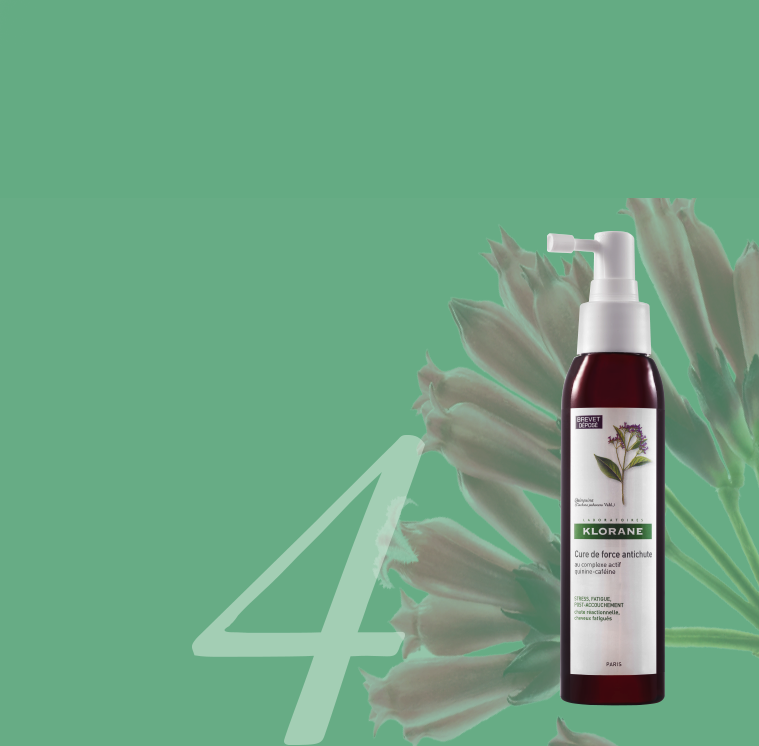
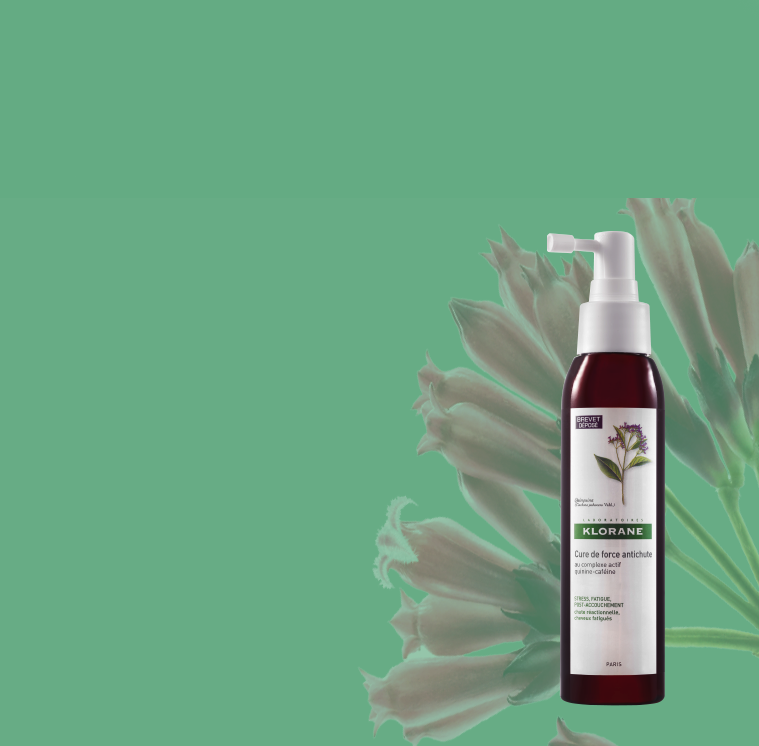
fixed

Changed region(s): [[0.2424, 0.5858, 0.5758, 1.0]]

diff --git a/klorane/css/style.css b/klorane/css/style.css
@@ -193,7 +193,6 @@ body {
         height: 590px;
         position: relative;
         overflow: hidden;
-        background-color: rgba(2, 117, 52, 0.6);
         -webkit-clip-path: polygon(100% 0, 100% 88%, 0 100%, 0 0);
         clip-path: polygon(100% 0, 100% 88%, 0 100%, 0 0); }
         .main .lesson.-one .image-slider .image-list {
@@ -245,6 +244,16 @@ body {
       background-color: rgba(187, 55, 84, 0.6);
       -webkit-clip-path: polygon(100% 0, 100% 73%, 0 100%, 0 0);
       clip-path: polygon(100% 0, 100% 73%, 0 100%, 0 0); }
+      .main .lesson.-two .image-slider::after {
+        content: "";
+        position: absolute;
+        z-index: 0;
+        bottom: 0;
+        left: 0;
+        width: 0;
+        height: 0;
+        border-bottom: 150px solid white;
+        border-left: 759px solid transparent; }
       .main .lesson.-two .image-slider .image-list {
         margin: 0;
         padding: 0;
@@ -310,7 +319,6 @@ body {
         position: relative;
         overflow: hidden;
         margin-left: 10px;
-        background-color: #67ac85;
         -webkit-clip-path: polygon(50% 0%, 100% 50%, 50% 100%, 0% 50%);
         clip-path: polygon(50% 0%, 100% 50%, 50% 100%, 0% 50%); }
       .main .lesson.-three .image-list {
@@ -322,9 +330,9 @@ body {
         height: 100%;
         top: 0; }
         .main .lesson.-three .image-list .-one {
-          background-image: url(../img/3.png);
-          max-width: 100%;
-          max-height: 100%; }
+          background-image: url(../img/3.png); }
+        .main .lesson.-three .image-list .-two {
+          background-image: url(../img/3b.png); }
       .main .lesson.-three .image-item {
         padding: 0;
         margin: 0;
@@ -334,7 +342,9 @@ body {
         position: absolute;
         top: 0;
         bottom: 0;
-        border: none; }
+        border: none;
+        max-width: 100%;
+        max-height: 100%; }
       .main .lesson.-three .text-slider {
         position: relative;
         top: -630px;
@@ -369,6 +379,17 @@ body {
             top: -220px;
             left: -40px;
             background-repeat: no-repeat; }
+    .main .lesson.-four::after {
+      content: "";
+      position: absolute;
+      background-image: url(../img/number4.png);
+      width: 215px;
+      height: 290px;
+      bottom: 0;
+      left: 195px;
+      background-repeat: no-repeat;
+      z-index: 0;
+      background-size: cover; }
     .main .lesson.-four .slider-control {
       top: -50px;
       right: 273px; }

diff --git a/klorane/css/style.sass b/klorane/css/style.sass
@@ -192,7 +192,7 @@ body
         height: 590px
         position: relative
         overflow: hidden
-        background-color: rgba($green, 0.6)
+        // background-color: rgba($green, 0.6)
         -webkit-clip-path: polygon(100% 0, 100% 88%, 0 100%, 0 0)
         clip-path: polygon(100% 0, 100% 88%, 0 100%, 0 0)
         .image-list
@@ -249,16 +249,16 @@ body
         background-color: rgba($pink, 0.6)
         -webkit-clip-path: polygon(100% 0, 100% 73%, 0 100%, 0 0)
         clip-path: polygon(100% 0, 100% 73%, 0 100%, 0 0)
-        // &::after
-        //   content: ''
-        //   position: absolute
-        //   z-index: 0
-        //   bottom: 0
-        //   left: 0
-        //   width: 0
-        //   height: 0
-        //   border-bottom: 150px solid white
-        //   border-left: 759px solid transparent
+        &::after
+          content: ''
+          position: absolute
+          z-index: 0
+          bottom: 0
+          left: 0
+          width: 0
+          height: 0
+          border-bottom: 150px solid white
+          border-left: 759px solid transparent
         .image-list
           margin: 0
           padding: 0
@@ -328,7 +328,7 @@ body
         position: relative
         overflow: hidden
         margin-left: 10px
-        background-color: $seaGreen
+        // background-color: $seaGreen
         -webkit-clip-path: polygon(50% 0%, 100% 50%, 50% 100%, 0% 50%)
         clip-path: polygon(50% 0%, 100% 50%, 50% 100%, 0% 50%)
       .image-list
@@ -341,8 +341,8 @@ body
         top: 0
         .-one
           background-image: url(../img/3.png)
-          max-width: 100%
-          max-height: 100%
+        .-two
+          background-image: url(../img/3b.png)
       .image-item
         padding: 0
         margin: 0
@@ -353,6 +353,8 @@ body
         top: 0
         bottom: 0
         border: none
+        max-width: 100%
+        max-height: 100%
         // img
         //   max-width: 100%
         //   max-height: 100%
@@ -392,6 +394,17 @@ body
             background-repeat: no-repeat
 
     &.-four
+      &::after
+        content: ''
+        position: absolute
+        background-image: url(../img/number4.png)
+        width: 215px
+        height: 290px
+        bottom: 0
+        left: 195px
+        background-repeat: no-repeat
+        z-index: 0
+        background-size: cover
       .slider-control
         top: -50px
         right: 273px

diff --git a/klorane/css/fonts.css b/klorane/css/fonts.css
@@ -1,15 +1,15 @@
 @font-face {
   font-family: "FuturaBook";
-  src: url("../fonts/FuturaBook.ttf") format("truetype"); }
+  src: url("./fonts/FuturaBook.ttf") format("truetype"); }
 @font-face {
   font-family: "FuturaMedium";
-  src: url("../fonts/FTR-medium.otf") format("opentype"); }
+  src: url("./fonts/FTR-medium.otf") format("opentype"); }
 @font-face {
   font-family: "BodoniCyr";
-  src: url("../fonts/BodoniCyr.ttf") format("truetype"); }
+  src: url("./fonts/BodoniCyr.ttf") format("truetype"); }
 @font-face {
   font-family: "BodoniCondensed";
-  src: url("../fonts/BodonConCyr.ttf") format("truetype"); }
+  src: url("./fonts/BodonConCyr.ttf") format("truetype"); }
 @font-face {
   font-family: "Bodoni72OSC";
-  src: url("../fonts/Bodoni720SC.otf") format("opentype"); }
+  src: url("./fonts/Bodoni720SC.otf") format("opentype"); }

diff --git a/klorane/css/fonts.sass b/klorane/css/fonts.sass
@@ -1,15 +1,15 @@
 @font-face
   font-family: "FuturaBook"
-  src: url('../fonts/FuturaBook.ttf')  format('truetype')
+  src: url('./fonts/FuturaBook.ttf')  format('truetype')
 @font-face
   font-family: "FuturaMedium"
-  src: url('../fonts/FTR-medium.otf')  format('opentype')
+  src: url('./fonts/FTR-medium.otf')  format('opentype')
 @font-face
   font-family: "BodoniCyr"
-  src: url('../fonts/BodoniCyr.ttf')  format('truetype')
+  src: url('./fonts/BodoniCyr.ttf')  format('truetype')
 @font-face
   font-family: "BodoniCondensed"
-  src: url('../fonts/BodonConCyr.ttf')  format('truetype')
+  src: url('./fonts/BodonConCyr.ttf')  format('truetype')
 @font-face
   font-family: "Bodoni72OSC"
-  src: url('../fonts/Bodoni720SC.otf')  format('opentype')
+  src: url('./fonts/Bodoni720SC.otf')  format('opentype')
